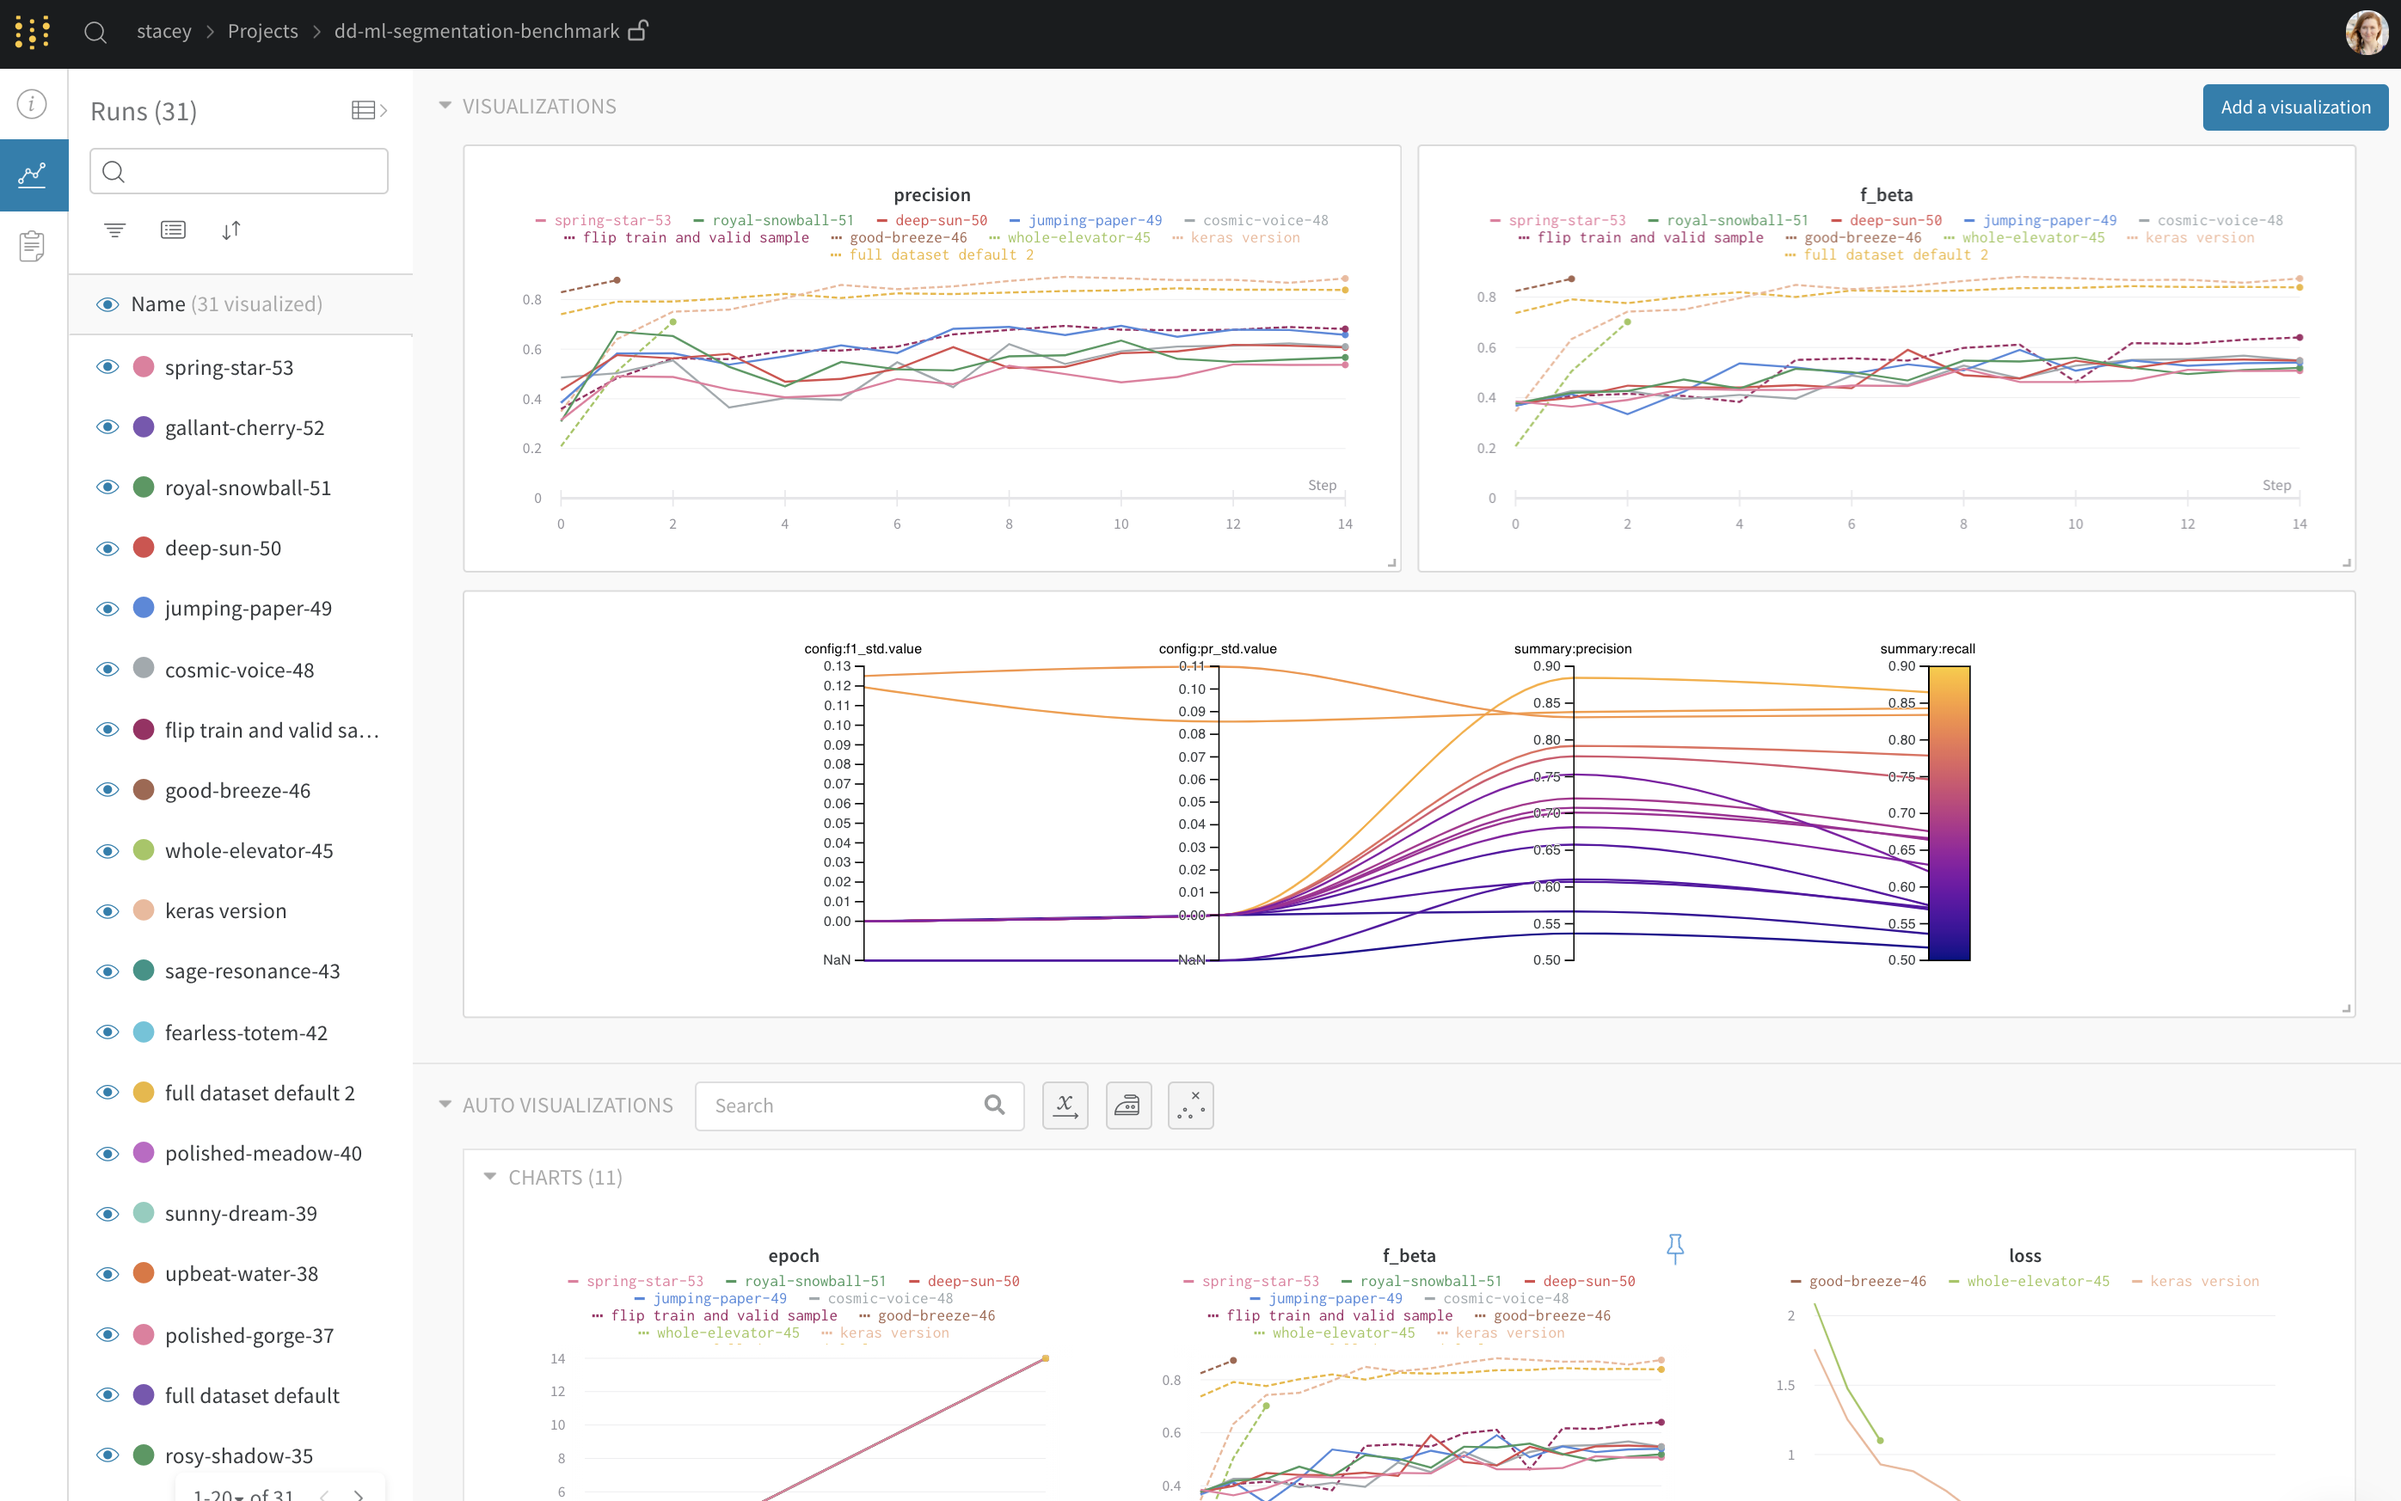
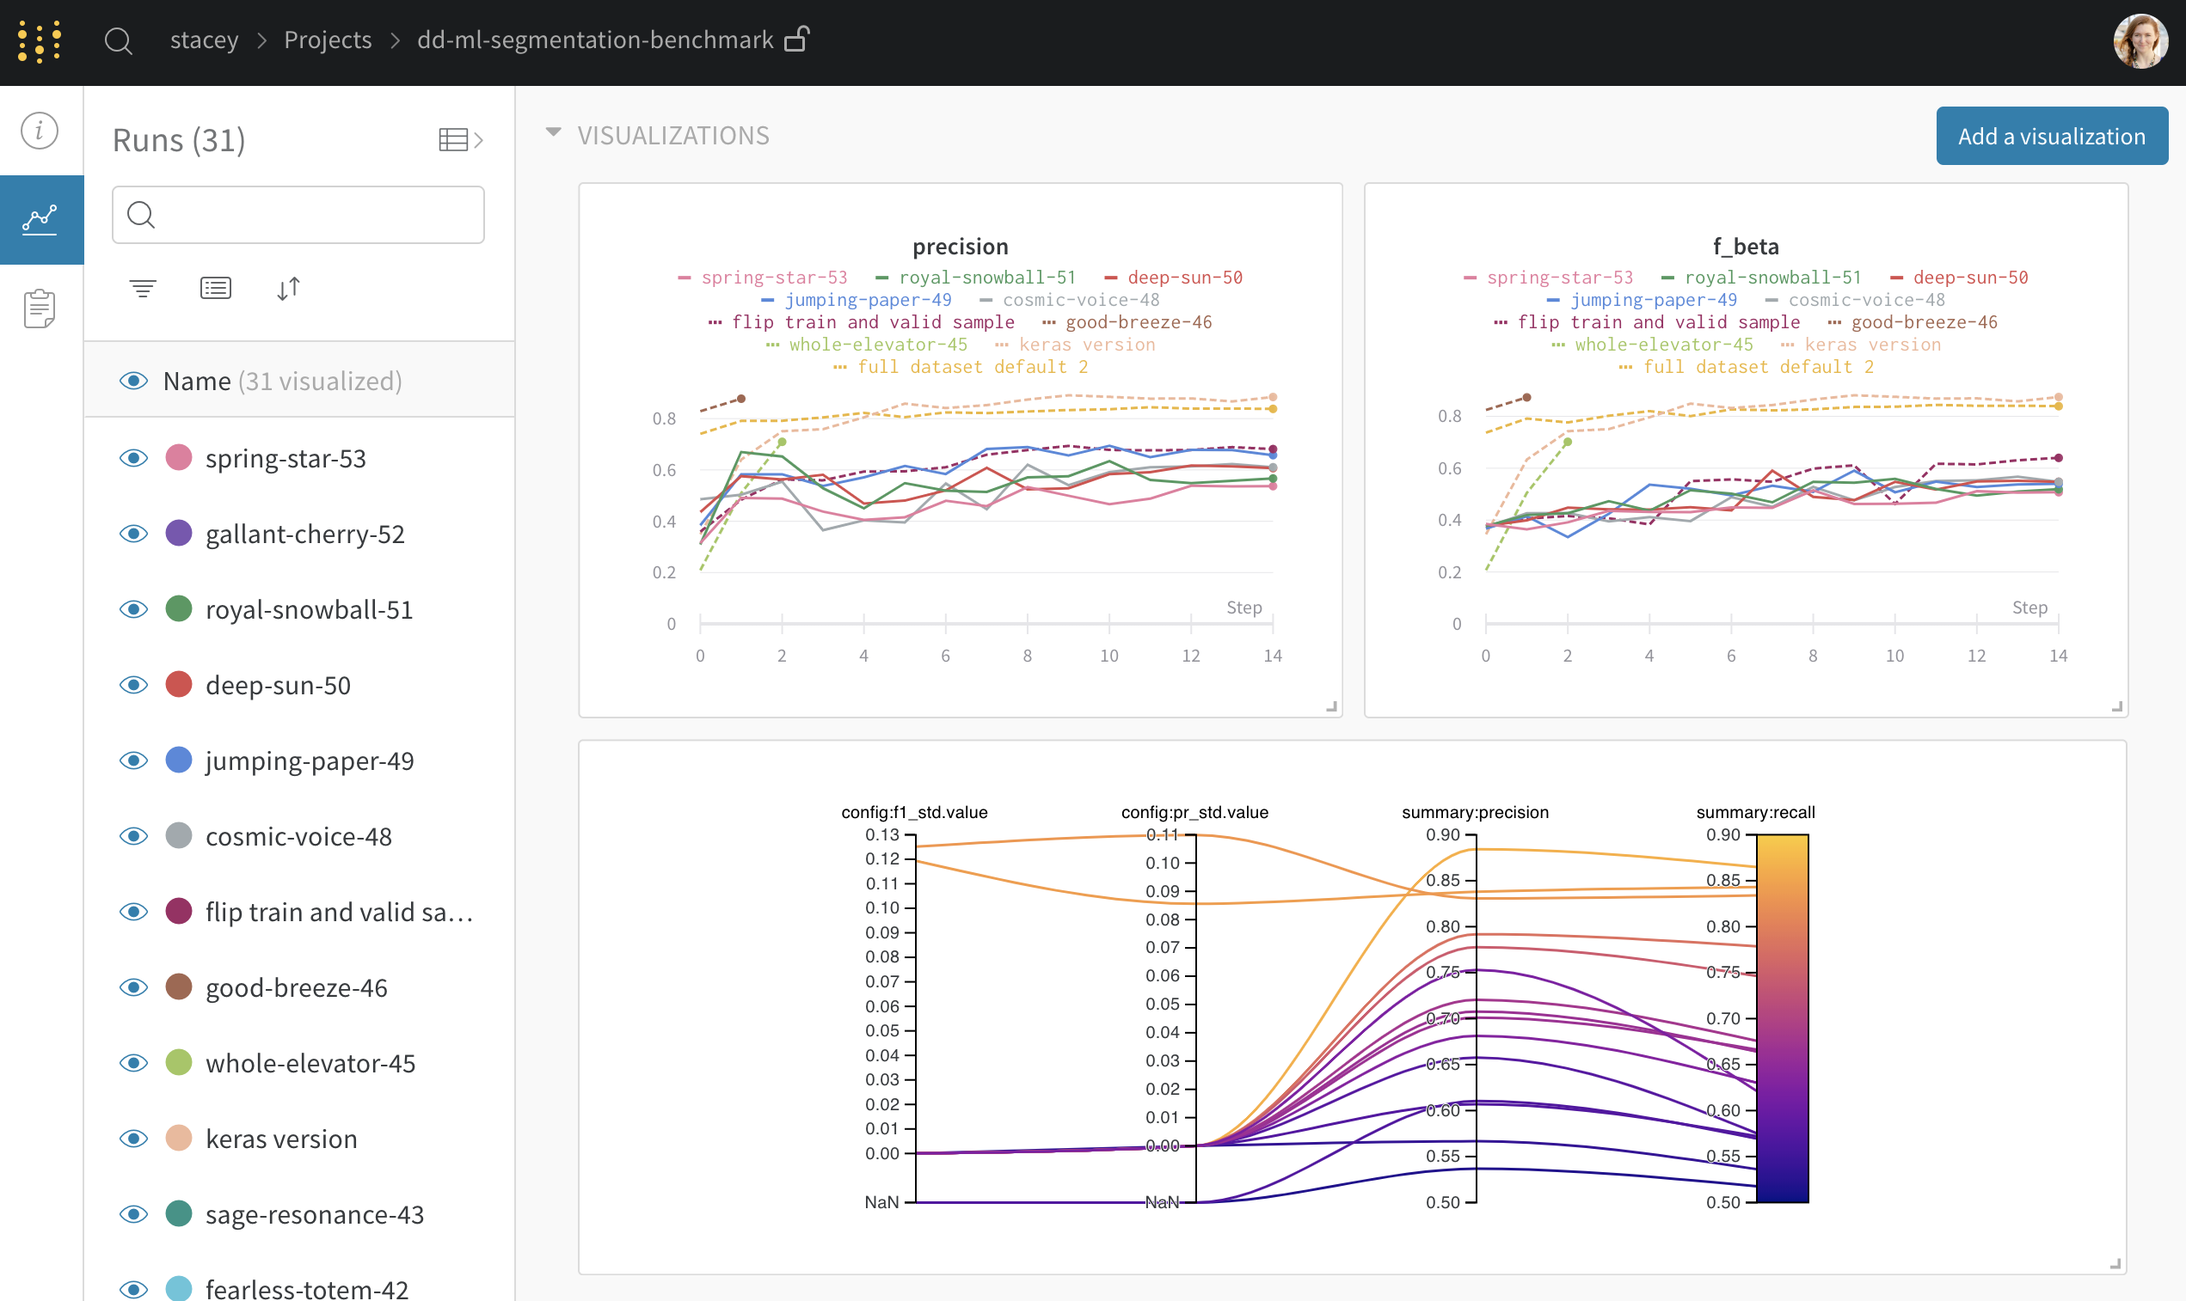
GitBook: [master] 5 pages and 3 assets modified

diff --git a/overview/classes/conference-talks.md b/overview/classes/conference-talks.md
@@ -1,0 +1,27 @@
+# Conference Talks
+
+Thanks for joining our in-person talks! Try our tools for experiment tracking with this [5 minute example →](https://colab.research.google.com/drive/1b-6qlB-NL51BAWamtenbVxp7ryUWQivV#scrollTo=bZpt5W2NNl6S)
+
+![](../../.gitbook/assets/image%20%2811%29.png)
+
+## Deep Learning in the Real World
+
+If you're curious to learn more about some of the things I referenced in my talk, check out these resources:
+
+1. IBM over promises and under delivers with Watson for cancer detection —[https://www.statnews.com/2017/09/05/watson-ibm-cancer/](https://www.statnews.com/2017/09/05/watson-ibm-cancer/)
+2. Deep learning models listen to machines to detect mechanical issues —[https://spectrum.ieee.org/automaton/robotics/artificial-intelligence/deep-learning-ai-listens-to-machines-for-signs-of-trouble](https://spectrum.ieee.org/automaton/robotics/artificial-intelligence/deep-learning-ai-listens-to-machines-for-signs-of-trouble)
+3. A diagram of companies in the machine learning space — [http://www.shivonzilis.com/machineintelligence](http://www.shivonzilis.com/machineintelligence)
+4. The Netflix Prize — [https://pdfs.semanticscholar.org/31af/4b8793e93fd35e89569ccd663ae8777f0072.pdf?\_ga=2.236029634.29078749.1572504512-1040137223.1572504512](https://pdfs.semanticscholar.org/31af/4b8793e93fd35e89569ccd663ae8777f0072.pdf?_ga=2.236029634.29078749.1572504512-1040137223.1572504512)
+5. Autonomous car forecasts — [https://ark-invest.com/research/waymo-autonomous-taxis](https://ark-invest.com/research/waymo-autonomous-taxis)
+6. Andrej Karpathy's ImageNet blog post — [http://karpathy.github.io/2014/09/02/what-i-learned-from-competing-against-a-convnet-on-imagenet/](http://karpathy.github.io/2014/09/02/what-i-learned-from-competing-against-a-convnet-on-imagenet/)
+7. The Stanford Dogs Dataset — [http://vision.stanford.edu/aditya86/ImageNetDogs/](http://vision.stanford.edu/aditya86/ImageNetDogs/)
+8. Labradoodle or fried chicken — [https://twitter.com/drjuliashaw/status/874293864814845952](https://twitter.com/drjuliashaw/status/874293864814845952)
+9. COMPAS recidivism scores — [https://www.propublica.org/article/how-we-analyzed-the-compas-recidivism-algorithm](https://www.propublica.org/article/how-we-analyzed-the-compas-recidivism-algorithm)
+10. Art to confuse facial recognition — [https://cvdazzle.com/](https://cvdazzle.com/)
+11. Adversarial examples on street signs — [https://www.bleepingcomputer.com/news/security/you-can-trick-self-driving-cars-by-defacing-street-signs/](https://www.bleepingcomputer.com/news/security/you-can-trick-self-driving-cars-by-defacing-street-signs/)
+12. Explainability in image classifiers — [https://arxiv.org/pdf/1602.04938.pdf](https://arxiv.org/pdf/1602.04938.pdf)
+13. Explainable time series predictions — [https://www.ijcai.org/proceedings/2019/0932.pdf](https://www.ijcai.org/proceedings/2019/0932.pdf)
+14. The reproducibility crisis — [https://www.wired.com/story/artificial-intelligence-confronts-reproducibility-crisis/](https://www.wired.com/story/artificial-intelligence-confronts-reproducibility-crisis/)
+
+
+

diff --git a/overview/classes/README.md b/overview/classes/README.md
@@ -1,0 +1,12 @@
+---
+description: Resources for people teaching machine learning
+---
+
+# Classes and Teachers
+
+We love seeing wandb used in classrooms!  When everyone in a class uses wandb it's easy for everyone to see each others work, which can help learning and collaboration.  We've also seen wandb help teachers by making grading more systematic.  
+
+If you create a project and set its privacy to "open" then students can all submit to a single place.  You are also welcome to use our [GitHub repo](https://github.com/lukas/ml-class) full of example code for teaching.
+
+If you are teaching a class, we would love to support you.  Please reach out to us in the chat below or at support@wandb.com.
+

diff --git a/SUMMARY.md b/SUMMARY.md
@@ -5,7 +5,8 @@
   * [Company FAQ](overview/company-faq.md)
   * [Technical FAQ](overview/technical-faq.md)
   * [Beginner FAQ](overview/beginner-faq.md)
-  * [Teacher FAQ](overview/teacher-faq.md)
+  * [Classes and Teachers](overview/classes/README.md)
+    * [Conference Talks](overview/classes/conference-talks.md)
   * [Support](overview/getting-help.md)
   * [Spread the Word](overview/love-wandb.md)
 * [Quickstart](quickstart.md)

diff --git a/app/pages/project-page.md b/app/pages/project-page.md
@@ -2,7 +2,7 @@
 
 The project page gives you a place to compare experiments. Run different versions of your model and compare metrics. Use a parallel coordinates chart to visualize how changing hyperparameters can affect output metrics.
 
-![](../../.gitbook/assets/image%20%2811%29.png)
+![](../../.gitbook/assets/image%20%2812%29.png)
 
 
 
